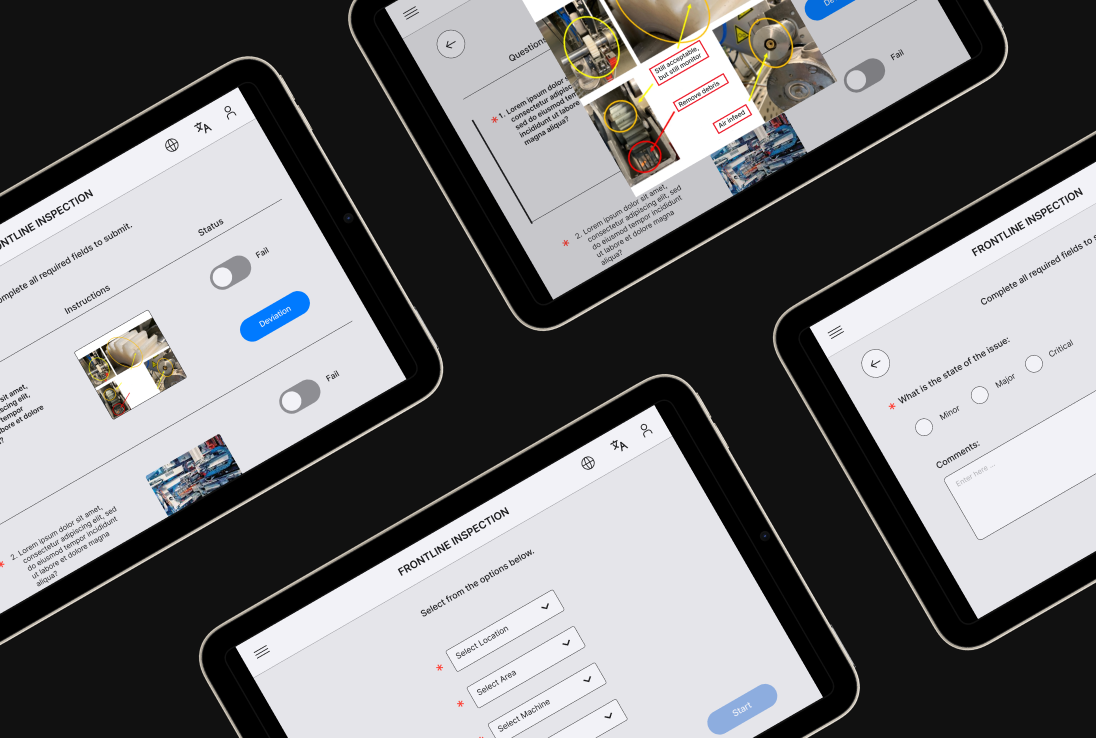
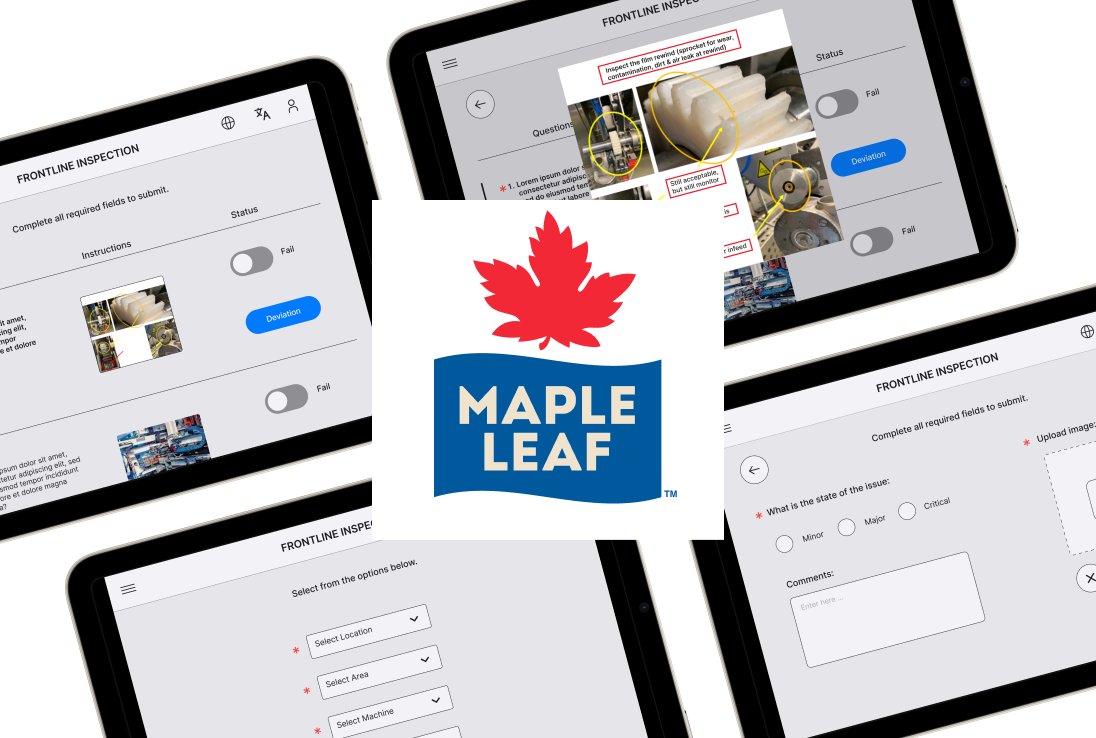
new monsters

diff --git a/index.html b/index.html
@@ -53,44 +53,55 @@
 
       <div class="typing-container">
         <div class="ps">
-        <h1 style="padding: 30px; background-color: var(--black); 
-        border: 2px solid var(--button-bg-color);">
+        <h1 style="padding: 30px; background-color: var(--bg-box); 
+        border: 5px solid var(--outline-box);">
         <span class="typed-text">
         > HELLO, <h>I'M JESS.</h>
         </span>
         </h1>
         </div>
       </div>
-
       <br>
-
       <h2><div id="rotatingText"> A pro in design, research, & analytics.</div> </h2>
-      <img src="monster1.png" style="scale: 1; float: right;">
       
-
-        <br>
-
-        <p><i class="fa-solid fa-star"></i>
+      <pre>
+        (◣_◢)
+        /(   )\\
+              < Rarrr!
+      </pre>
+      
+         <p><i class="fa-solid fa-star"></i>
           Previously @ <i>Maple Leaf Foods, Sushi Kui, etc.</i></p>
-          <img src="monster2.png" style="scale: 1; float: right;">
           <div class="home-buttons">
-            <a href="#projects" class="button" data-target="projects">
-                <b>See My Projects</b>
+            <a href="#projects" class="button" data-target="projects" style="background: var(--hightlighttext)">
+                <b>See Projects</b>
                 <i class="fa-solid fa-arrow-right"></i>
             </a>
             <a href="#resume" class="button" data-target="resume">
-                <b>View My Resume</b>
+                <b>View Resume</b>
                 <i class="fa-solid fa-arrow-up-right-from-square"></i>
             </a>
             </div>
-            <br> 
-            <br>       
             <br>
-            <img src="uxmonster.png" style="float: left;">
+            <pre>
+              (◣_◢)                                 (ಠ_ಠ)
+                                                           < Grrrah!
+          /   /‾‾‾‾‾‾\   \                   /‾‾‾‾‾‾‾‾‾‾‾‾‾‾‾\
+        /   /   O O    \   \                /   O   O   O   O   \
+       |   |   |   |    |   |              |      _____        |
+       |   |   |_|_|    |   |              |     |     |       |
+       |    \__________/    |              \     \_____/      /
+        \                   /                \               /
+         \_________________/                  \_____________/
+           //       \\                          //       \\
+          //         \\                        //         \\  
+       __||__     __||__                  __||__     __||__
+      /_____\     /_____\                /_____\     /_____\
+^^^^^^^^^^^^^^^^^^^^^^^^^^^^^^^^^^^^^^^^^^^^^^^^^^^^^^^^^^^^^^^^^^
+            </pre>
         <div id="game-container">
-
           <div class="ps">
-          <p style="background-color: var(--black); border: 2px solid var(--button-bg-color); padding: 20px;">> WILD UX MONSTERS HAVE APPEARED!
+          <p style="background-color: var(--bg-box); border: 5px solid var(--outline-box); padding: 20px;">> WILD UX MONSTERS HAVE APPEARED!
             </p>
             </div>
             <p><i class="fa-solid fa-star"></i> Fix the issues to save the user experience.</p>
@@ -113,21 +124,21 @@
       </div>
       <div class="bento-box">
         <div class="bento-item" data-modal="modal-maple">
-          <h4>MAPLE LEAF FOODS INSPECTION FORM</h4>
-          <img src="mlfcover.png" style="width: 550px;">
+          
+          <img src="mlfcover.png" style="width: 600px;">
         </div>
         <div class="bento-item" data-modal="modal-cross">
-          <h4>CROSSCULTURA</h4>
-          <img src="crosscultura1-front.png" style="width: 450px;">
+          
+          <img src="crosscover.png" style="width: 450px;">
         </div>
         <div class="bento-item" data-modal="modal-moodle">
-          <h4>MOODLE</h4>
+          
           <img src="moodcover.png" style="width: 450px;">
           
         </div>
         <div class="bento-item" data-modal="modal-sushi">
-          <h4>SUSHI KUI MENU</h4>
-          <img src="sushicover.png" style="width: 550px;">
+          
+          <img src="sushicover.png" style="width: 600px;">
         </div>
       </div>
     </section>
@@ -138,7 +149,7 @@
         <span class="close">&times;</span>
         <h2>Maple Leaf Food's Inspection Form</h2>
       <br>
-        <div class="slideshow" style="width: 950px;">
+        <div class="slideshow" style="width: 700px;">
           <img src="formpg1-landscape.png" class="active" alt="Slide 1">
           <img src="formpg2-landscape.png" alt="Slide 2">
           <img src="formpg3-landscape.png" alt="Slide 3">
@@ -452,7 +463,7 @@
       <div class="modal-content">
         <span class="close">&times;</span>
         <h2>Moodle</h2>
-        <div class="slideshow" style="width: 500px; float: right;">
+        <div class="slideshow" style="width: 350px; float: right;">
         <img src="moodle1-portrait.png" class="active" alt="Slide 1">
         <img src="moodle2-portrait.png"  alt="Slide 2">
         <img src="moodle3-portrait.png"  alt="Slide 3">
@@ -617,8 +628,8 @@
     </div>
 
     <section id="about" class="section">
-      <h2>About Me</h2>
-      <img src="myicon.png" alt="Decorative Image" class="float-right-image">
+      <h2>About</h2>
+      <img src="myavatar.png" alt="Decorative Image" class="float-right-image">
       <p>Hi, I’m Jessica Ocampo, a third-year <h>Global Business and Digital Arts
         student at the University of Waterloo</h>, where I explore the
           intersection of business, design, and technology. With a strong eye
@@ -640,23 +651,25 @@
           in a unique way. This blend of experiences reflects my passion
            for versatility and a user-first approach in everything I do.</p>
         <br>
-      <h4>Hobbies</h4>
+      <h3>Hobbies</h3>
       <div class="visual-buttons">
         <a class="button">READING</a>
         <a class="button">GAMING</a>
         <a class="button">CODING</a>
         <a class="button">WEIGHT-LIFTING</a>
+        <a class="button">HAIR-CUTTING</a>
       </div>
       <br>
-      <h4>Interests</h4>
+      <h3>Interests</h3>
       <div class="visual-buttons">
         <a class="button">GENERATIVE AI</a>
         <a class="button">EXTENDED REALITIES</a>
         <a class="button">UX/UI DESIGN</a>
+        <a class="button">GRAPHIC DESIGN</a>
         <a class="button">VIDEO-EDITING</a>
       </div>
       <br>
-      <h4>Philosophy</h4>
+      <h3>Philosophy</h3>
       <p>I believe that every interaction tells a story,
          and I aim to craft experiences that are not only
           functional but also captivating and fun. By
@@ -680,7 +693,7 @@
         <div class="typing-container">
           <div class="ps">
           <h1 style="padding: 30px; background-color: var(--black); 
-          border: 2px solid var(--button-bg-color);">
+          border: 5px solid var(--button-bg-color);">
           <span class="typed-text">
           > LET'S <h>CONNECT :)</h>
           </span>

diff --git a/webstyle.css b/webstyle.css
@@ -1,16 +1,26 @@
 /* Root Variables */
 :root {
-    --bg-color: #181818; /* Dark background color */
-    --nav-color: #1d1d1d; /* Semi-transparent light navigation */
-    --text-color: #c7c7c7; /* Light text color */
-    --text-color2: #b9b9b9;
-    --highlight-color: #777766; /* Lighter highlight color */
-    --hover-color: #444444; /* Hover effect for elements */
-    --button-bg-color: #2e2e2e; /* Button background color */
-    --button-hover-color: #1a1a1a; /* Button hover color */
+    --bg-color: #f1f1f1; /* Dark background color */
+    --nav-color: #ebebeb; /* Semi-transparent light navigation */
+    --text-color: #1b1b1b; /* Light text color */
+    --text-color2: #2c2c2c;
+
+    --highlight-color: #c9b7c1; /* Lighter highlight color */
+    --hightlighttext: #d8c061;
+    --hover-color: #bdbdbd; /* Hover effect for elements */
+
+    --button-bg-color: #cfcfcf; /* Button background color */
+    --button-hover-color: #dedede; /* Button hover color */
+
+    --visual-button: #d7d7d7;
+    --visual-text: rgb(41, 41, 41); 
+
     --hr-color: #393939;
-    --hightlighttext: #3c3c31;
-    --black: #111111;
+    --black: #ebebeb;
+    
+    --bg-box: #f6f6f6;
+    --outline-box: rgb(25, 25, 25);
+    
 }
 
 
@@ -74,12 +84,12 @@ h1 {
  }
 
 h2 { 
-    font-size: 34px;
+    font-size: 32px;
     font-weight: 500;
     padding: 10px;
  }
 h3 { 
-    font-size: 30px;
+    font-size: 28px;
     font-weight: 400;
     padding: 10px;
     color: var(--text-color2);
@@ -125,7 +135,7 @@ h3 {
 
 /* Navigation Bar */
 nav {
-    width: 80px;
+    width: 85px;
     background-color: var(--nav-color);
     display: flex;
     flex-direction: column;
@@ -146,7 +156,7 @@ nav h1 {
 nav a {
     text-decoration: none;
     color: var(--text-color2);
-    padding: 10px;
+    padding: 15px;
     margin: 10px;
     margin-top: 20px;
     display: flex;
@@ -154,7 +164,7 @@ nav a {
     align-items: center;
     border-radius: 5px;
     text-align: center;
-    font-size: 22px;
+    font-size: 20px;
     transition: background-color 0.3s ease, color 0.3s ease;
 }
 
@@ -176,7 +186,7 @@ nav a:hover {
 
 /* Main Content */
 main {
-    margin-left: 100px;
+    margin-left: 120px;
     padding: 50px;
     flex: 1;
 }
@@ -203,7 +213,7 @@ main {
       "item3 item4 item4";
     grid-template-rows: auto auto auto;
     grid-template-columns: 500px 1fr 500px;
-    gap: 20px;
+    gap: 40px;
     margin-top: 20px;
     opacity: 0;
     transform: translateY(20px);
@@ -216,7 +226,7 @@ main {
 }
 
 .bento-item {
-    background-color: var(--black);
+    background-color: white;
     color: var(--text-color);
     border: 2px solid var(--button-bg-color);
     border-radius: 10px;
@@ -247,16 +257,17 @@ main {
 }
 
 .visual-buttons .button {
-    background-color: var(--button-bg-color);
-    color: var(--text-color);
+    background-color: var(--visual-button);
+    color: var(--visual-text);
     padding: 15px 25px;
     text-decoration: none;
     border-radius: 40px;
-    font-size: 15px;
+    font-size: 14px;
     transition: background-color 0.3s ease, transform 0.3s ease;
     display: inline-flex;
     align-items: center;
     justify-content: center;
+    border: none;
 }
 
 
@@ -273,7 +284,7 @@ main {
     padding: 25px 35px;
     text-decoration: none;
     border-radius: 40px;
-    font-size: 18px;
+    font-size: 16px;
     transition: background-color 0.3s ease, transform 0.3s ease;
     display: inline-flex;
     align-items: center;
@@ -310,7 +321,7 @@ main {
     display: inline-flex;
     align-items: center;
     justify-content: center;
-    font-size: 18px;
+    font-size: 16px;
     transition: background-color 0.3s ease, transform 0.3s ease;
 }
 
@@ -389,7 +400,7 @@ main {
     top: 50%;
     transform: translateY(-50%);
     background-color: rgba(0, 0, 0, 0.5);
-    color: var(--text-color);
+    color: var(--bg-color);
     border: none;
     padding: 10px;
     cursor: pointer;
@@ -406,7 +417,7 @@ main {
 
 /* Game */
 #game-container {
-    float: right;
+    float: left;
   position: relative;
   width: 600px;
   height: 300px;
@@ -423,7 +434,7 @@ main {
   position: absolute;
   width: 80px;
   height: 80px;
-  background-color: #0e0e0e;
+  background-color: var(--hightlighttext);
   font-size: 20px;
   border-radius: 50px;
   cursor: pointer;
@@ -458,7 +469,7 @@ main {
 }
 
 #start-btn:hover {
-  background-color: #396642;
+  background-color: var(--hightlighttext);
 }
 
 /* Text that rotates out */
@@ -496,5 +507,11 @@ main {
     to {
       border-right-color: transparent;
     }
+  }
+
+  pre {
+    text-align: center;
+      font-size: 1.2rem;
+      line-height: 1.4;
   }
   
